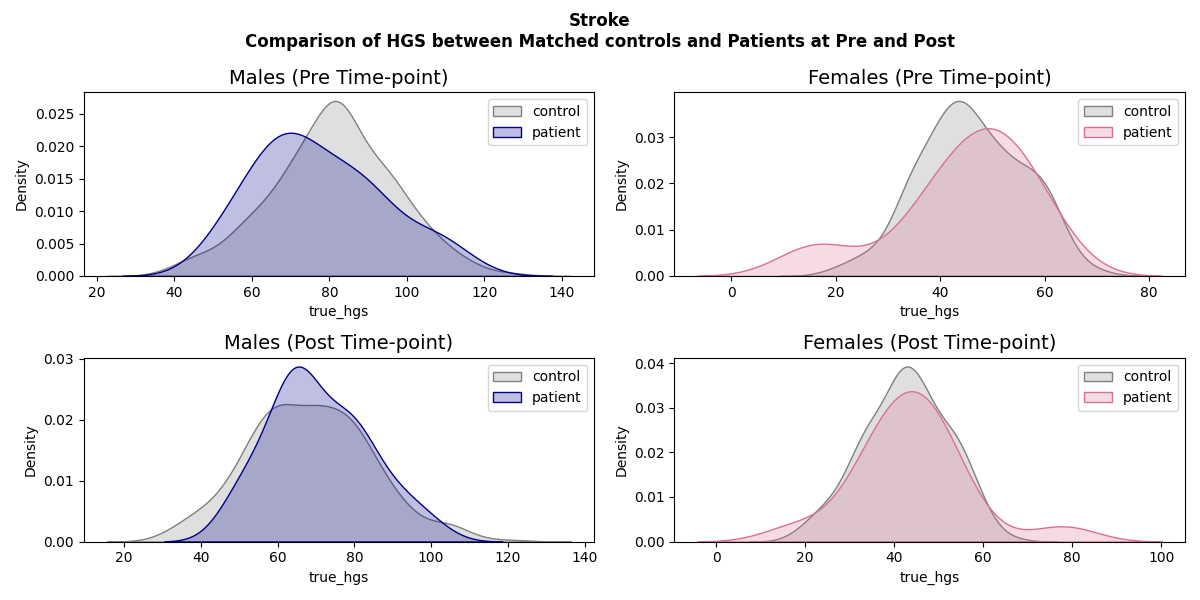
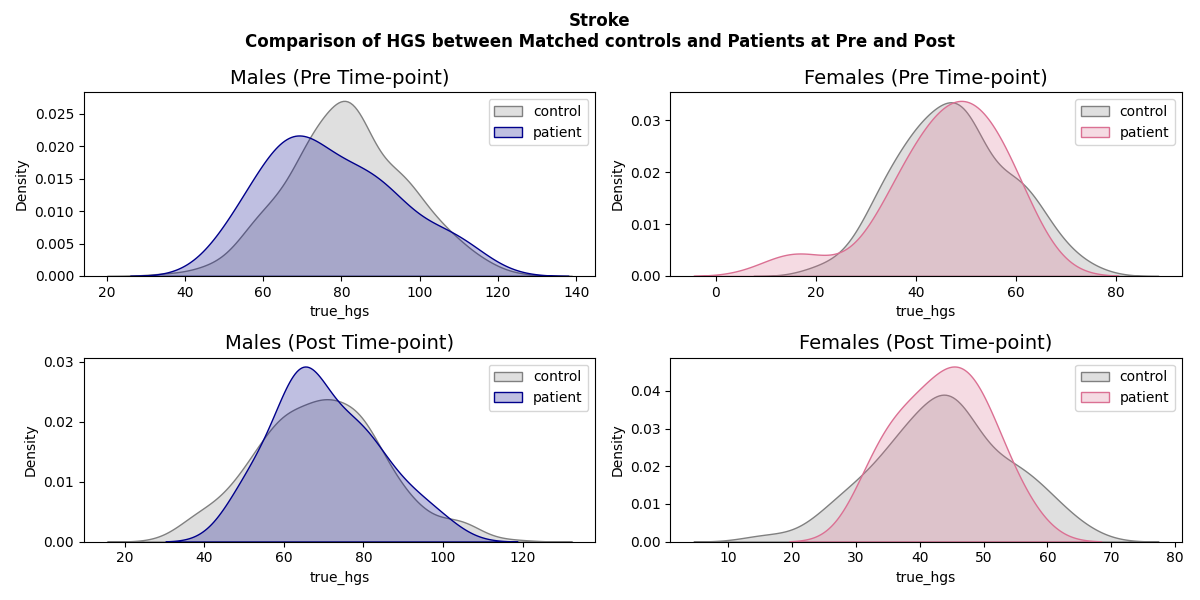
Add pre-post days differences as an extra feature for matching controls.

diff --git a/exec/9_test_trained_models_on_disorders/run_make_zscore_on_patients_data.py b/exec/9_test_trained_models_on_disorders/run_make_zscore_on_patients_data.py
@@ -1,0 +1,80 @@
+import os
+import pandas as pd
+import numpy as np
+import sys
+from scipy.stats import zscore
+from hgsprediction.define_features import define_features
+from hgsprediction.load_data.disorder import load_disorder_data
+
+from ptpython.repl import embed
+# print("===== Done! =====")
+# embed(globals(), locals())
+
+###############################################################################
+filename = sys.argv[0]
+population = sys.argv[1]
+mri_status = sys.argv[2]
+disorder_cohort = sys.argv[3]
+visit_session = sys.argv[4]
+feature_type = sys.argv[5]
+target = sys.argv[6]
+model_name = sys.argv[7]
+confound_status = sys.argv[8]
+n_repeats = sys.argv[9]
+n_folds = sys.argv[10]
+gender = sys.argv[11]
+first_event = sys.argv[12]
+
+##############################################################################
+# Define main features and extra features:
+features, extend_features = define_features(feature_type)
+##############################################################################
+# Define feature columns including the target
+feature_columns = features + [target]
+##############################################################################
+# load data
+disorder_cohort = f"{disorder_cohort}-{population}"
+if visit_session == "1":
+    session_column = f"1st_{disorder_cohort}_session"
+##############################################################################
+# Load the extracted data based on various parameters
+df_extracted = load_disorder_data.load_extracted_data_by_feature_and_target(
+        population,
+        mri_status,
+        session_column,
+        feature_type,
+        target,
+        gender,
+        first_event,
+    )
+# print("===== Done! End =====")
+# embed(globals(), locals())
+##############################################################################
+threshold = 2.5
+outliers_index = []
+# Iterate over the disorder subgroups
+for disorder_subgroup in [f"pre-{population}", f"post-{population}"]:
+    # Set the prefix for columns based on visit session    
+    if visit_session == "1":
+        prefix = f"1st_{disorder_subgroup}_"
+    # --------------------------------------- #
+    # Add prefix to feature columns:
+    features_items = [prefix + item for item in feature_columns]
+    # Calculate z-scores for the selected features
+    df_z_scores = zscore(df_extracted.loc[:, features_items])
+
+    # Identify outliers based on z-scores exceeding the threshold
+    outliers = (df_z_scores > threshold) | (df_z_scores < -threshold)
+    # Remove outliers
+    df_no_outliers = df_z_scores[~outliers.any(axis=1)]
+    df_outliers = df_z_scores[outliers.any(axis=1)]
+
+    outliers_index.append(df_outliers.index[0])
+    # --------------------------------------- #
+    print(outliers_index)
+
+df = df_extracted[~df_extracted.index.isin(outliers_index)]
+print(df)
+
+print("===== Done! End =====")
+embed(globals(), locals())

diff --git a/exec/9_test_trained_models_on_disorders/4_run_basedon_days_diff_make_matching_samples_from_healthy_mri_data_for_disorder_data.py b/exec/9_test_trained_models_on_disorders/4_run_basedon_days_diff_make_matching_samples_from_healthy_mri_data_for_disorder_data.py
@@ -11,6 +11,9 @@ from hgsprediction.load_results.disorder.load_disorder_corrected_prediction_resu
 from hgsprediction.load_results.healthy.load_zscore_results import load_zscore_results
 from hgsprediction.save_results.disorder.save_disorder_matched_samples_results import save_disorder_matched_samples_results
 
+
+from scipy.stats import zscore
+
 from ptpython.repl import embed
 # print("===== Done! =====")
 # embed(globals(), locals())
@@ -62,6 +65,43 @@ df_disorder = load_disorder_corrected_prediction_results(
     n_folds,
     first_event,
 )
+###############################################################################
+##############################################################################
+# Define main features and extra features:
+features, extend_features = define_features(feature_type)
+##############################################################################
+# Define feature columns including the target
+feature_columns = features + [target]
+##############################################################################
+# load data
+threshold = 2.5
+outliers_index = []
+# Iterate over the disorder subgroups
+for disorder_subgroup in [f"pre-{population}", f"post-{population}"]:
+    # Set the prefix for columns based on visit session    
+    if visit_session == "1":
+        prefix = f"1st_{disorder_subgroup}_"
+    # --------------------------------------- #
+    # Add prefix to feature columns:
+    features_items = [prefix + item for item in feature_columns]
+    # Calculate z-scores for the selected features
+    df_z_scores = zscore(df_disorder.loc[:, features_items])
+
+    # Identify outliers based on z-scores exceeding the threshold
+    outliers = (df_z_scores > threshold) | (df_z_scores < -threshold)
+    # Remove outliers
+    df_no_outliers = df_z_scores[~outliers.any(axis=1)]
+    df_outliers = df_z_scores[outliers.any(axis=1)]
+
+    outliers_index.append(df_outliers.index[0])
+    # --------------------------------------- #
+
+df_disorder = df_disorder[~df_disorder.index.isin(outliers_index)]
+print(df_disorder)
+
+# print("===== Done! =====")
+# embed(globals(), locals())
+###############################################################################
 # Assign 'disorder' column with a value of 1 (indicating disorder/disease)    
 df_disorder.loc[:, "disorder"] = 1
 pre_days = df_disorder.loc[:, f"{pre_prefix}days"]

diff --git a/exec/9_test_trained_models_on_disorders/7_check_ANOVA_assumptions.py b/exec/9_test_trained_models_on_disorders/7_check_ANOVA_assumptions.py
@@ -52,7 +52,8 @@ df_male = df[df["gender"]=="male"]
 
 df_control = df[df['group']=='control']
 df_disorder = df[df['group']==f'{population}']
-
+# print("===== Done! End =====")
+# embed(globals(), locals())
 ##############################################################################
 male_pre_controls = df_male[df_male["time_point"]=="pre-control"][anova_target]
 
@@ -69,6 +70,7 @@ female_pre_patients = df_female[df_female["time_point"]==f"pre-{population}"][an
 male_post_patients = df_male[df_male["time_point"]==f"post-{population}"][anova_target]
 
 female_post_patients = df_female[df_female["time_point"]==f"post-{population}"][anova_target]
+
 ##############################################################################
 # Check Homogeneity of Variance to use gender as a main factor in ANOVA:
 # Null and Alternative Hypotheses:
